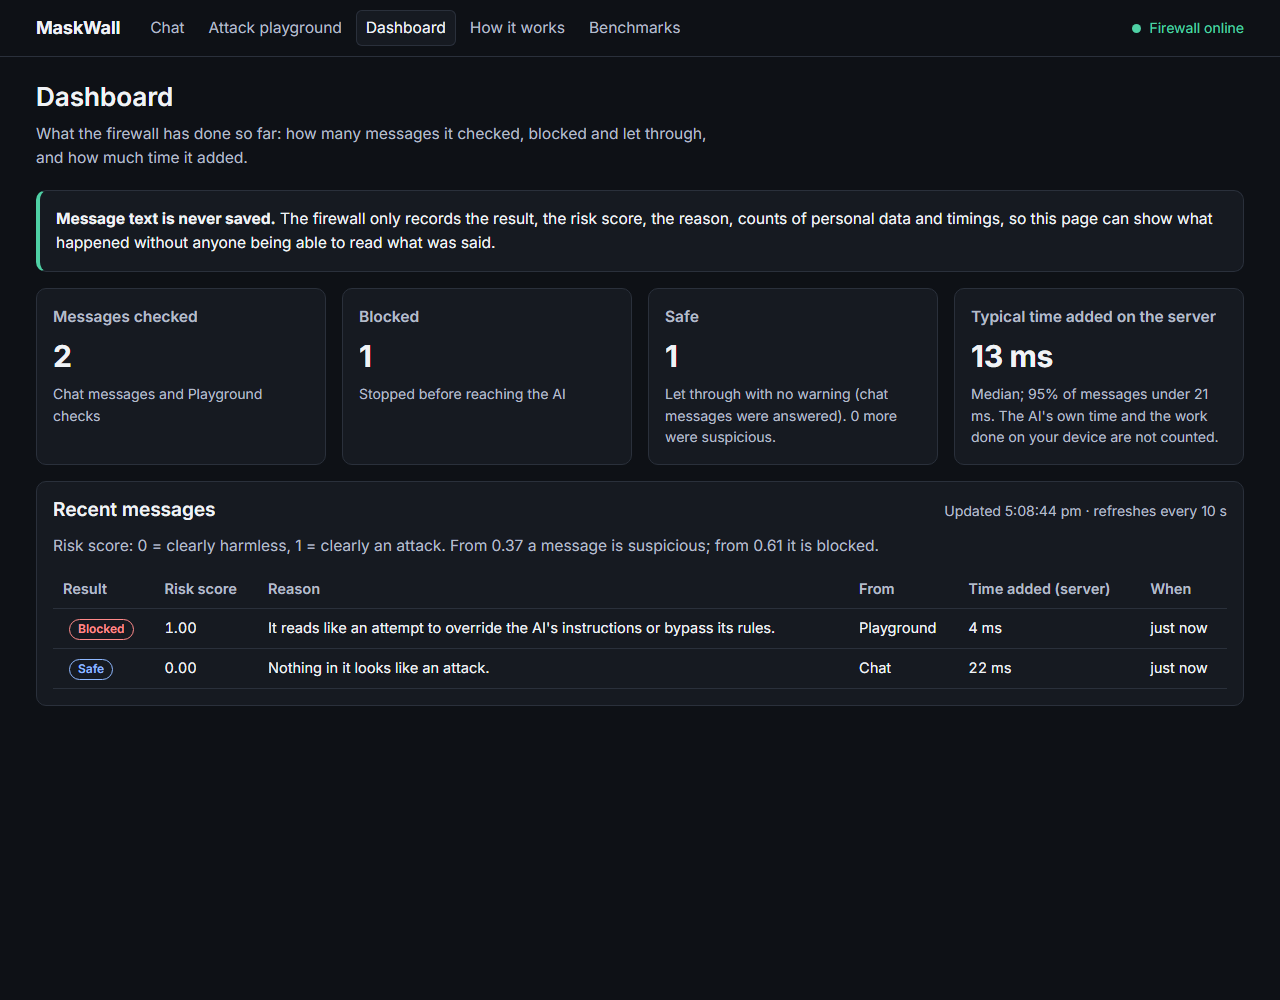
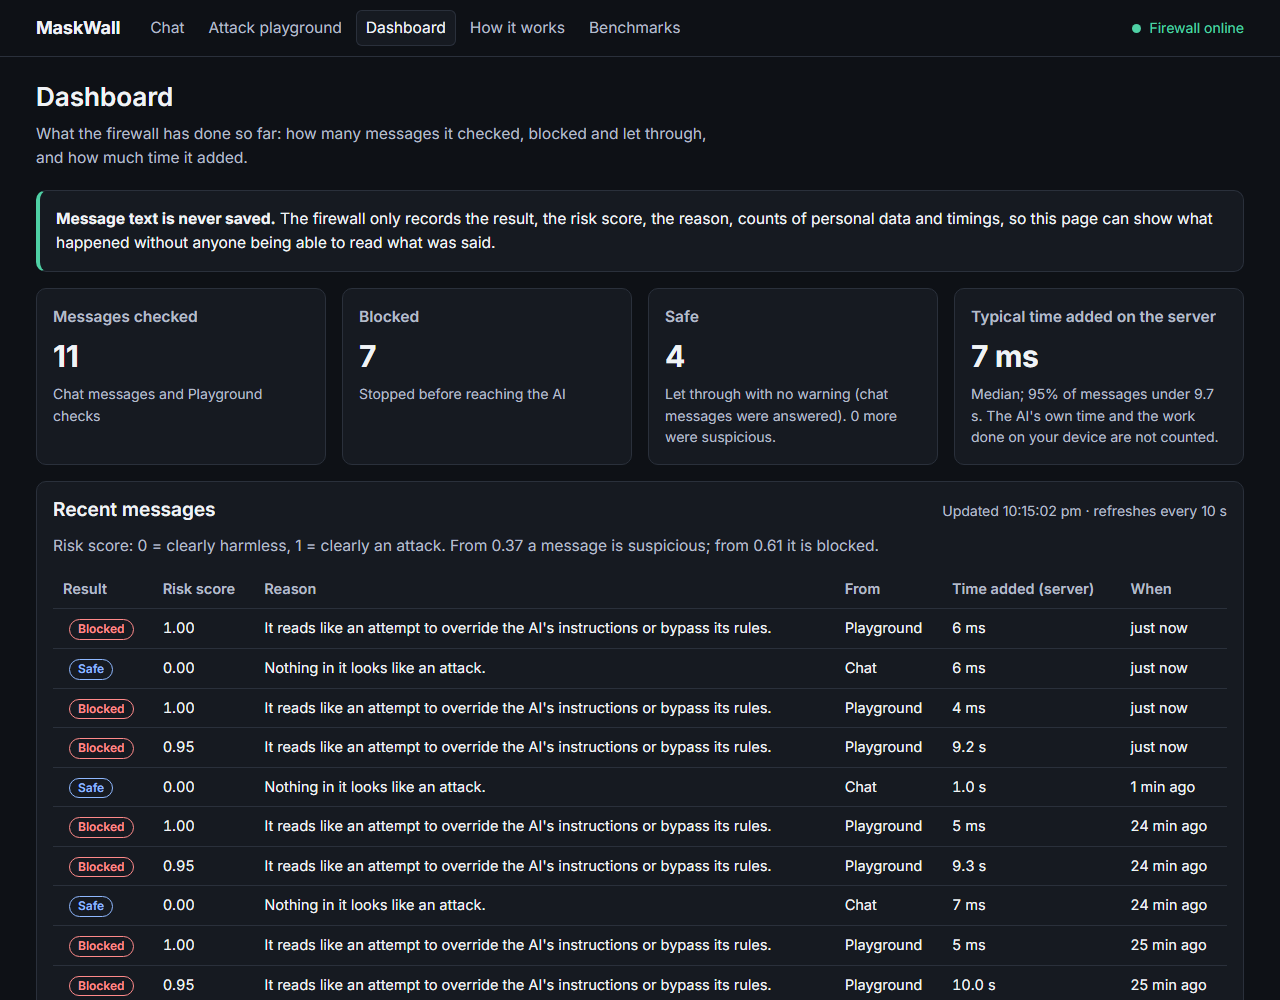
live check 19/19 incl. enforced CSP and partial-scan block; cold-start attempt (service stayed awake, no number invented); security item closed on owner statement; screenshots re-captured; limits stated on site and README; decisions Day 4.18, session log

diff --git a/frontend/src/pages/HowItWorksPage.tsx b/frontend/src/pages/HowItWorksPage.tsx
@@ -216,6 +216,11 @@ export function HowItWorksPage() {
             cost of the retraining that fixed the Hinglish false alarms.
           </li>
           <li>
+            <strong>Free hosting limits.</strong> The server sleeps when nobody uses it, so the first visit after a long idle shows a "Waking up the firewall" banner (the site waits up to about three minutes). I have not
+            timed a real cold start: when I tried, the server had stayed awake. It also has a small slice of one CPU, so long inputs take seconds to check, and a very long or token-dense message (long runs of numbers or
+            code) is blocked as "too long to check completely"; that check can still take 9 to 10 seconds of server time before it blocks.
+          </li>
+          <li>
             <strong>Encoded attacks</strong> (base64, letters spaced out, other scripts) are not decoded before checking.
           </li>
           <li>

diff --git a/docs/decisions.md b/docs/decisions.md
@@ -1247,3 +1247,14 @@ One reviewer looked for **bugs and security** across the repo (no critical or hi
 - Three of my patch scripts mangled backslashes in the tooling (a NUL byte written into `output.py`, a form-feed written into a README path, and a patch that aborted without applying anything): each was found by a check (a binary-file warning, a grep for control characters, an assertion) and fixed. Rule kept: avoid backslash escapes in generated patches; verify the result.
 - The first CSP I wrote would have restricted scripts and blocked WebAssembly; I replaced it with only the directives that do not touch script loading.
 - Not verified here: the new CSP and `vercel.json` headers on Vercel (done on the next live check after the push); the deployed Render service must be redeployed for the backend fixes to take effect.
+
+## Day 4.18: Live check after the review fixes, cold-start attempt, security item closed (2026-11-22)
+- **Deployed state:** commit `816e4f3` (review fixes) is live on Render and Vercel (pushed and deployed by the owner).
+- **Live check: 19 of 19** (`frontend/scripts/live_check.mjs`, headless Chromium against https://mask-wall.vercel.app; run three times because the screenshots were re-captured; each run makes one real AI call). New checks this round: the `X-Content-Type-Options`, `Referrer-Policy` and `X-Frame-Options` headers are present; the **Content-Security-Policy header is present and is ENFORCED** (an image from another site is refused with `img-src`; the browser logs that deliberate probe as a console error, which the script excludes from its "no errors" check); the **redeployed backend blocks a token-dense input** that cannot be scanned completely (`action: block`, `coverage: partial`, the Day 4.17 fix) and `/health` reports the daily limit. Everything from Day 4.15 still passes (placeholders only on the wire, the real AI answer, the early-warning model from the Hub, Playground, Dashboard, How it works, Benchmarks 3b, deep link, no console errors).
+- **The owner's own hand test (2026-11-19, live Chat):** name, email and PAN masked, the AI received only placeholders, the reply was unmasked on the device, MaskWall added 198 ms (server plus device). Owner-reported; consistent with the screenshots (a device share of about 0.3 to 1.3 s on a first visit, the server share a few ms to 22 ms).
+- **Cold start: NOT measured.** The owner reported seeing the banner after about 3 days idle but the duration was not recorded (the message contained a template placeholder, not a number). I tried to measure it myself: `frontend/scripts/cold_start.mjs` waited **22 minutes with no requests from me**, then opened the site in a browser and timed the banner (`ml/results/cold_start.json`). **The service was still awake**: `/health` answered within a fraction of a second (the 3.6 s to "Firewall online" is page load), the banner never appeared. Render documents a 15-minute idle spin-down, so something else kept it up: most likely the owner's own open browser tab (`useHealth` polls `/health` every 30 s, and any visitor's open tab does the same), possibly a different idle window. I did not wait longer. **So the docs and the site say "up to a minute or two, not timed", not a number.** Anyone can reproduce an attempt with the script when no tab is open.
+  - **Side effect worth knowing:** because every open tab polls `/health` every 30 s, the free server is kept awake (and uses instance hours) while anyone has the site open.
+- **Security item 5 closed** on the owner's statement: the Groq key in use was created on 2026-11-12, after `.env` was in `.gitignore`; the committed `.env` held only a placeholder. Recorded in `docs/security.md` as the owner's statement (I never saw the key and cannot verify its creation date).
+- **A finding from my own test traffic (open, not fixed):** the Dashboard screenshot shows blocked dense inputs at **9.2 to 10.0 s** "time added". The server scans up to six windows of a token-dense input before it can say `partial`, then blocks it anyway (since Day 4.17 the outcome no longer depends on the score). That is up to 10 s of CPU for a request that is refused, on a 0.15 vCPU server with one scan at a time, so one visitor could keep the server busy (30 requests per minute allowed). Long legitimate documents have the same cost (6.8 s for four windows). **Proposed fix, not done (needs the owner's decision):** when the tokenised input needs more windows than the cap, block immediately after tokenising (a few milliseconds) or scan only the first window to produce a score; the response would lose the whole-input score. Stated as a limitation on How it works and in the README.
+- **Screenshots** in `docs/screenshots/` were re-captured from the live site (they show real events, including my own test requests, so the Dashboard picture includes two slow dense-input rows).
+- **Process:** my first CSP probe made the "no console errors" check fail (the blocked image is logged as an error); the check now excludes that one known message. I moved the slow dense-input check to the end of the script so it does not skew the Dashboard screenshot.

diff --git a/docs/security.md b/docs/security.md
@@ -5,7 +5,7 @@
 - **`.env` was committed once.** The very first commit (`43764c4`, 2026-11-12) contained `.env` with a `GROQ_API_KEY` line. It was removed by amending and force-pushing, so the file is not in the current history. The old commit still exists locally as an unreachable object and, because the repository is public, **must be treated as exposed** (a clone, a fork or GitHub's cache taken in that window could still hold it).
   - What the value was: a 13-character string starting with "you…" and without the `gsk_` prefix of real Groq keys, so it looks like a placeholder (for example `your_key_here`). I looked at its length and prefix only; the value is not reproduced anywhere.
   - **Action: the owner confirms that the Groq key in use today was created after that date or has been rotated** (rotate at console.groq.com, then update the local `.env` and the Render environment variable). Rotation is the only real remedy; history rewriting cannot recall copies.
-  - Status: *awaiting the owner's confirmation.*
+  - **Status: closed on the owner's statement of 2026-11-22.** The Groq key in use was created on 2026-11-12, after `.env` was added to `.gitignore`, and the value in the committed `.env` was only a placeholder (consistent with what I saw: 13 characters, no `gsk_` prefix). This is the owner's statement: I have never seen the key and cannot verify when it was created. The committed file contained no Gemini key.
 - `.env`, model binaries and `backend/data/` are gitignored. Keys are read from the environment on the server and are excluded from `repr()` of the settings object; deployed secrets live only in the Render dashboard's environment variables (the fingerprint key is generated by Render and never seen by the owner).
 
 ## 2. `npm audit` (frontend), 21 findings at the start, 17 after patch updates; no `--force`
@@ -33,5 +33,5 @@ The audit database still reports the items below, because their fix is a **major
 Security and bug findings, with what was done: partial scans reaching the AI (fixed: blocked by default), links in the AI's reply that carry restored personal data (fixed: such links render as text), canary encodings missed by the output scanner and no NFKC normalisation (fixed: base64/base32 at every alignment, rot13, code points, NFKC), length cap checked before Unicode expansion (fixed: re-checked after), one visitor able to drain the global AI budget and counters resetting on restart (fixed in part: per-visitor allowance; the restart reset is a documented limit), IPv6 /64 keying (fixed), unpinned name-model revision (fixed: pinned to the evaluated commit), no request timeout in the browser (fixed: 90 s), missing CSP (partly: image/object/frame/base/form directives only), stale comments and an unpinned `huggingface_hub` (fixed). Not changed: GitHub Actions are pinned by major tag, not commit SHA; the base image is a floating tag; `requirements.lock.txt` has no hashes; the public `/stats` endpoint shows the last 20 events (verdict, score, timing, no text) to anyone, which is rate-limited and disclosed on the Dashboard; browser-side normalisation removes hidden characters before sending, so the server's "hidden characters" warning does not fire for browser traffic. Full list: `docs/decisions.md` Day 4.17.
 
 ## 5. Open items
-- **The early `.env` commit (section 1): the owner has not yet confirmed the Groq key rotation.** Until then the exposure above stands.
+- ~~The early `.env` commit (section 1): confirm the Groq key rotation~~ **Closed 2026-11-22** on the owner's statement (see section 1). No other secret-related item is open.
 - Script/connect CSP; commit-SHA pinning of Actions; hashed lock file.

diff --git a/README.md b/README.md
@@ -154,7 +154,7 @@ Each one is argued, with the numbers, in [docs/decisions.md](docs/decisions.md).
 - **Long harmless documents are flagged more often than short prompts** (14 of 114).
 - **Names are the weak spot of the privacy layer.** Lowercase names are mostly missed (1 of 7 in the sample); addresses, dates of birth and bank details are not detected at all; the names sample was drafted by an AI and not reviewed by a human, so its figures are indicative. The Aadhaar/PAN/email/phone detectors are rules checked on 49 test cases, not measured on real data.
 - **The Hugging Face Hub sees your IP address** when your browser downloads the two models (never message text).
-- **The deployment is a free-tier demo**, not production-grade: the server sleeps when idle (the first request can take a minute or two; I have not timed it precisely), it has a small slice of one CPU (a long document takes several seconds to scan), the Dashboard's data lives on the server's ephemeral disk and resets on a restart or redeploy, and the number of AI answers per day is capped (for everyone together, and per visitor); those counters are in memory, so they also reset whenever the free server restarts.
+- **The deployment is a free-tier demo**, not production-grade: the server sleeps when idle (the first request after a long idle shows a "Waking up" banner and can take a minute or two; I have **not** measured a real cold start: when I tried, 22 minutes after the last request the service was still awake, and a browser tab polling `/health` every 30 seconds is enough to keep it up), it has a small slice of one CPU (a long document takes several seconds to scan, and a dense input that is blocked as "too long to check completely" can still cost 9 to 10 seconds of server time first), the Dashboard's data lives on the server's ephemeral disk and resets on a restart or redeploy, and the number of AI answers per day is capped (for everyone together, and per visitor); those counters are in memory, so they also reset whenever the free server restarts.
 - **Latency was measured on a laptop and on Render's free tier; accuracy (F1, false-positive rates) only on a laptop.** 8-bit model scores differ slightly between CPUs, so the accuracy figures are not re-measured for the deployed hardware, and a message scoring exactly at a threshold can be handled differently on different machines.
 - **The 50 ms speed rule set before training is not met on the deployed server under back-to-back load**; it is reported as such (see Results). Note that only that latency threshold was fixed in advance: the rule for *which model to serve* was amended after results were seen (to account for the indirect-injection set), which `docs/decisions.md` (Day 1.9) records as post hoc, and the final choice of MiniLM rested on later analysis, not on the original rule.
 - **Labels and splits have known weaknesses.** Label cleaning was done by a single reviewer working with AI help, using a model's nominations, and it was applied to the test split as well (both label versions are reported in `ml/results`). Thresholds and hyperparameters were tuned on validation data only, but the pre-registered go/no-go gate for replacing the served model used test F1, test recall and the tricky-set recall. Templated prompts remain in all splits: excluding the 10% of test rows that share a 40-character prefix with a training row lowers the word-TF-IDF baseline's F1 from 0.893 to 0.882 (inside the interval), so the headline numbers are slightly flattering.

diff --git a/docs/session_log.md b/docs/session_log.md
@@ -326,3 +326,11 @@ npm run export-results                     # after any change in ml/results
 ## Day 4 (2026-11-18 to 11-19): shipping, so far
 - Hygiene (licence, NOTICE, secrets history, npm audit), models on the Hub, backend Dockerfile, CI (three green jobs), then the **hosting pivot: Hugging Face Docker Spaces need PRO, so the backend runs on Render's free tier** (Day 4.6). Measured there: memory fits (peak about 223 MB of 512), proxy chain is 3 hops, latency is CPU-throttled (Day 4.7, 4.8, 4.11). Latency numbers on the site and in the docs now come from the Render measurements (Benchmarks section 3b, How it works); laptop figures stay, labelled as laptop.
 - Mistakes made and fixed (all in decisions.md): a lock file that broke `npm ci` on Linux (4.4), the onnxruntime-node CUDA download (4.5), a too-tight int8 score tolerance (4.9), and invalid workflow YAML from a patch script (4.10).
+
+## Day 4, final state (2026-11-22)
+- **Shipped:** web app https://mask-wall.vercel.app (Vercel, root `frontend/`), API https://maskwall-api.onrender.com (Render free tier, `render.yaml`), models on the Hugging Face Hub (`namya06/maskwall-injection-minilm`, pinned commit; benchmark-only DeBERTa). CI (GitHub Actions) has three jobs: backend (ruff, README results check, 432 tests with the real model), frontend (lint, 180 tests of which one needs network, build), Docker (build plus container smoke test).
+- **Verified live:** `frontend/scripts/live_check.mjs` passes 19 of 19 (masking before the request leaves the browser, one real AI answer, models from the Hub, CSP present and enforced, partial scans blocked, all pages, no console errors).
+- **Independent review (Day 4.17):** two read-only reviewers, no critical or high findings; the medium security findings and the overstated claims were fixed (see decisions.md).
+- **Security item closed (Day 4.18):** Groq key rotation, on the owner's statement. Open hardening: script/connect CSP, SHA-pinned Actions, hashed lock file.
+- **Open items for the owner:** (1) record the demo GIF and replace the README placeholder; (2) decide on the dense-input cost (up to 10 s of CPU for a request that is blocked anyway; proposed fix in decisions.md Day 4.18); (3) the cold start is still unmeasured (an open tab keeps the free server awake; `node scripts/cold_start.mjs` with no tab open will measure it); (4) v1.1 plan: fine-tune the name model on lowercased text (licence check first).
+- **Numbers to remember:** served model F1 0.905 on the public test set (182/208 attacks caught, 12/717 harmless flagged, 0/250 XSTest flagged); server speed on Render's free tier (0.1 vCPU nominal, 0.15 measured) 3.8 ms for a short message when requests are spaced, about 92 ms back-to-back, 1.2 s per full window, 6.8 s for four windows; memory peak about 222 MB of 512 MB; proxy chain 3 hops; the 50 ms rule met for spaced short messages only (reported, not changed).
